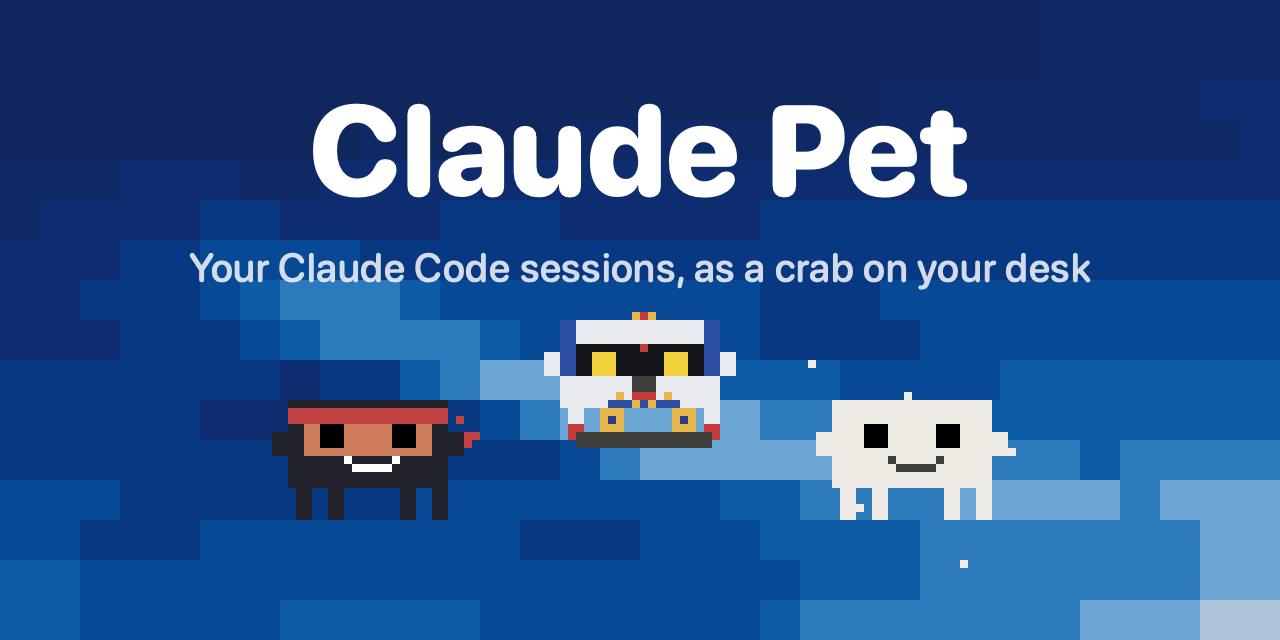
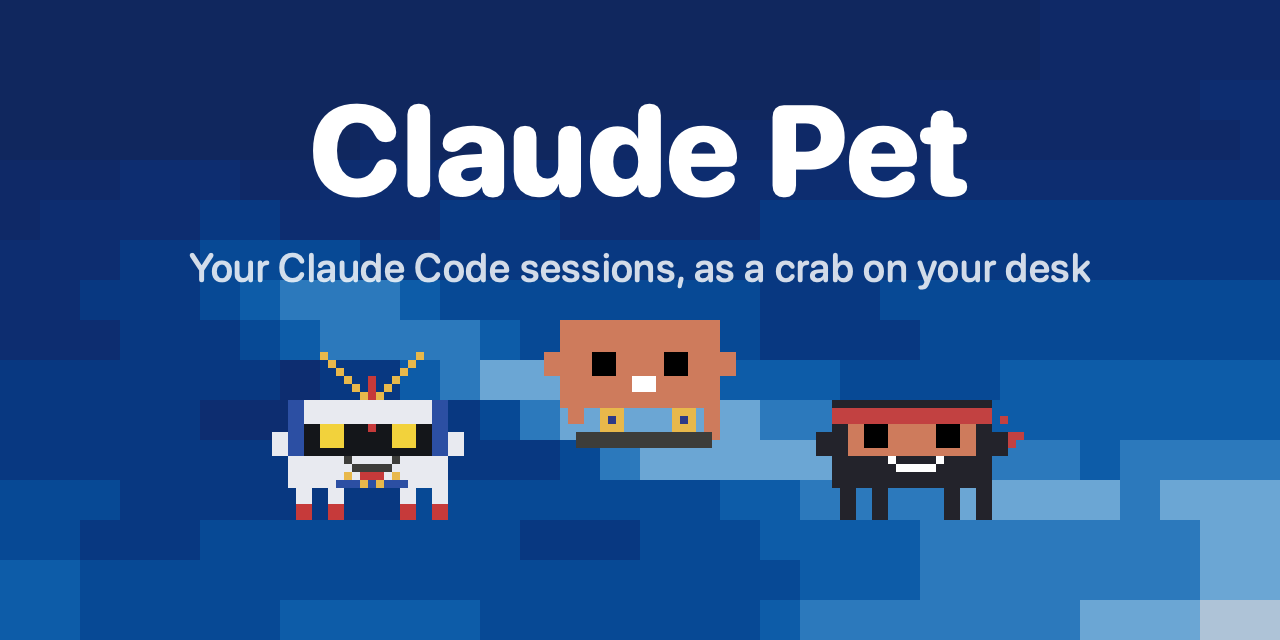
The mascot lands the trick
Gundam left, ninja right, and Claw'd himself in the centre landing the
kickflip. The operator's call, and the right one: the strip is the brand's
second hero, and the brand is the orange crab — the costumes are his wardrobe,
not his replacements.

The test that FORBADE this flips its contract on purpose. It used to assert
the strip never shows the undressed crab, back when three costumes were the
point; now it asserts the centre slot belongs to the mascot and the wardrobe
lives on his flanks, with both flanks distinct. The social preview inherits
the same cast, so the og-image now leads with him too.

431 tests, exit 0. All eight reel assets byte-stable across two renders.

diff --git a/Tests/ClaudePetTests/CostumeStripTests.swift b/Tests/ClaudePetTests/CostumeStripTests.swift
@@ -75,14 +75,19 @@ struct CostumeStripTests {
         #expect(Set(poses.map(\.bob)).count > 1, "the kickflip never leaves the ground")
     }
 
-    /// Three, and three different ones. A wardrobe strip showing the same
-    /// costume twice would be worse than showing one.
-    @Test("Three distinct costumes, none of them the default")
-    func threeDistinctCostumes() {
+    /// The mascot leads, flanked by two distinct costumes.
+    ///
+    /// This test used to FORBID `.none` — "the strip includes the undressed
+    /// crab" — and the operator overruled it: the strip is the brand's second
+    /// hero, and the brand is the orange crab. So the contract flips: the
+    /// centre must be Claw'd himself, and the wardrobe lives on his flanks.
+    @Test("Claw'd holds the centre, two distinct costumes flank him")
+    func theMascotLeads() {
         let worn = ReelRenderer.costumeCast.map(\.costume)
         #expect(worn.count == 3)
-        #expect(Set(worn).count == 3, "a costume appears twice")
-        #expect(!worn.contains(.none), "the strip includes the undressed crab")
+        #expect(worn[1] == Costume.none, "the centre slot belongs to the mascot")
+        #expect(worn[0] != .none && worn[2] != .none, "a flank is undressed")
+        #expect(worn[0] != worn[2], "both flanks wear the same costume")
     }
 
     /// The outer two must not wiggle in unison — synchronised idling reads as

diff --git a/Sources/ClaudePet/App/ReelRenderer.swift b/Sources/ClaudePet/App/ReelRenderer.swift
@@ -586,12 +586,16 @@ enum ReelRenderer {
     /// flight at t=0 or at the loop point, for the reason
     /// `theSleepingClipIsOneWholeBreath` gives: a clip that does not close
     /// shows a seam every time it repeats.
+    /// Claw'd himself holds the centre and lands the trick. The operator's
+    /// call, and the right one: the strip is the brand's second hero, and the
+    /// brand is the orange crab — the costumes are his wardrobe, not his
+    /// replacements. `.none` here is not "undressed", it is the mascot.
     static let costumeCast: [(costume: Costume, flourish: CrabAnimator.Flourish, onsets: [Double])] = [
-        (.ninja,  .wiggle,   [1.2, 6.4]),
-        (.gundam, .kickflip, [3.2]),
+        (.gundam, .wiggle,   [1.2, 6.4]),
+        (.none,   .kickflip, [3.2]),
         // A wave, not a second wiggle: two crabs doing the same idle reads as
         // one animation stamped twice, which is the opposite of a wardrobe.
-        (.white,  .wave,     [1.8, 7.4]),
+        (.ninja,  .wave,     [1.8, 7.4]),
     ]
 
     /// What the shared bubble says, beat by beat.
